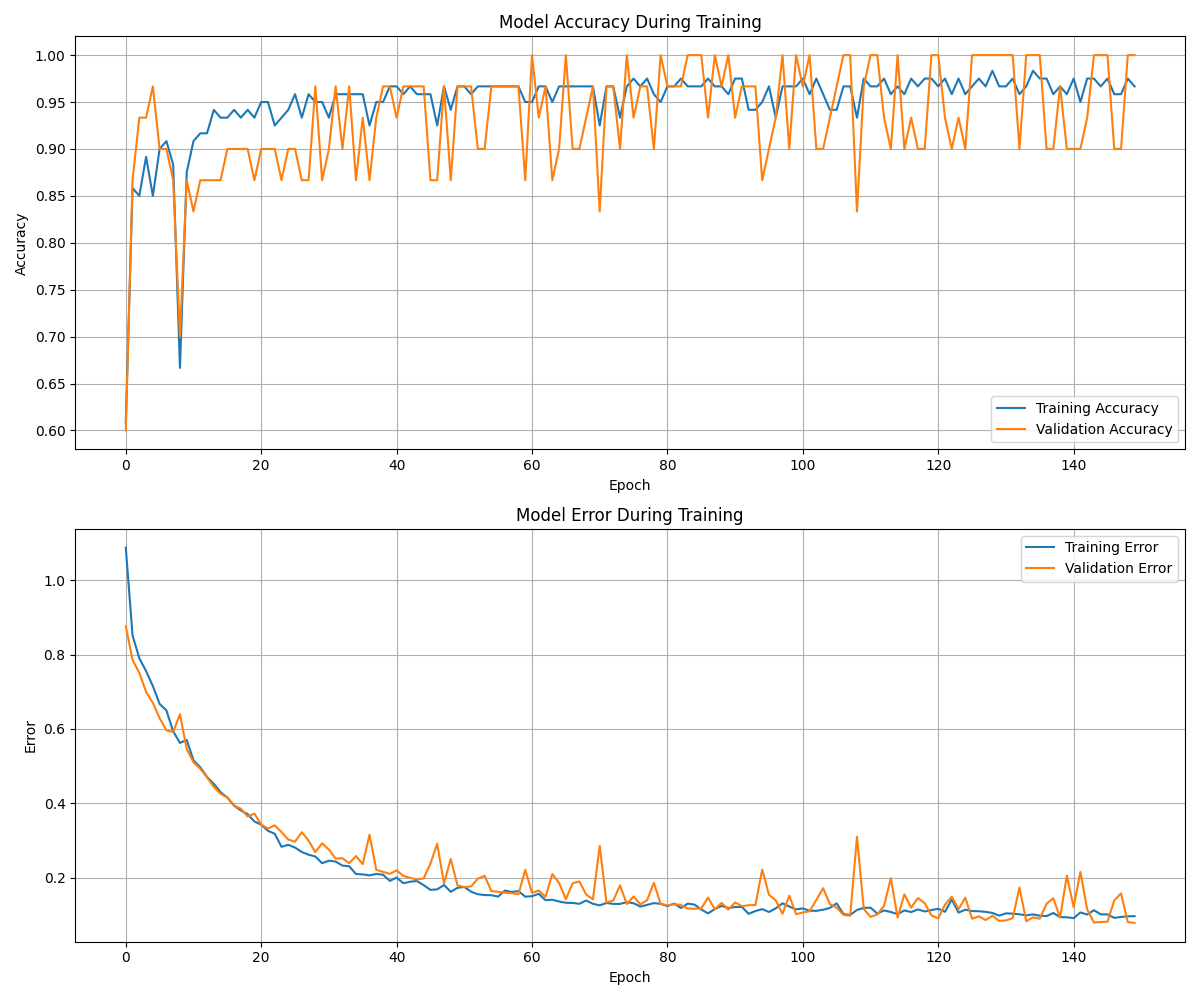
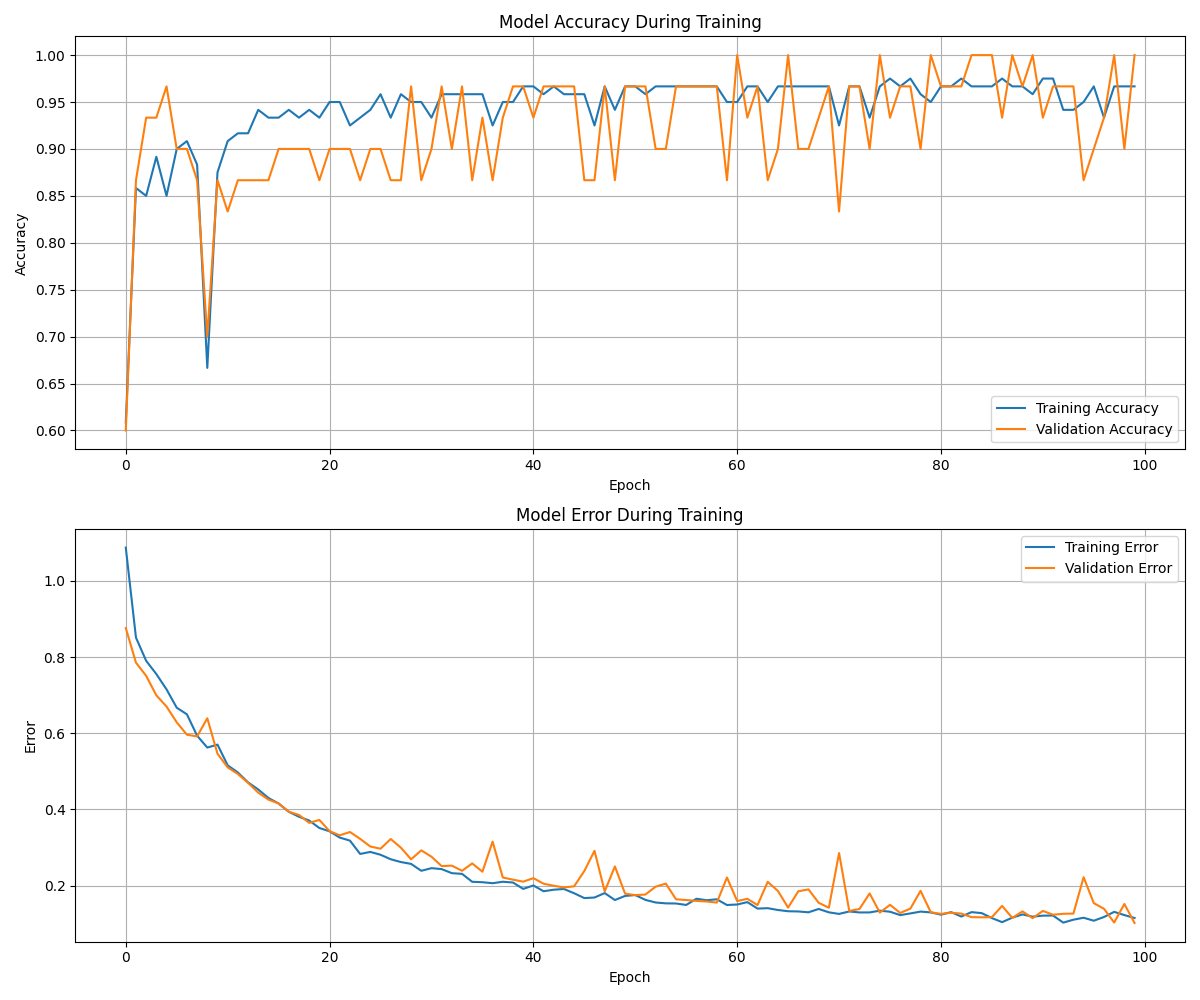
evaluation de l'overfitting

diff --git a/NeuralNet.py b/NeuralNet.py
@@ -364,7 +364,7 @@ def main():
     X_val, y_val = X_val.to_numpy(), y_val.to_numpy()
     
     nn = NeuralNet(hidden_layer_sizes=(8,), batch_size=4, activation='tanh',
-                   learning_rate=0.01, epoch=150)
+                   learning_rate=0.01, epoch=100)
     
     nn.fit(X_train, y_train, X_val, y_val)
     
